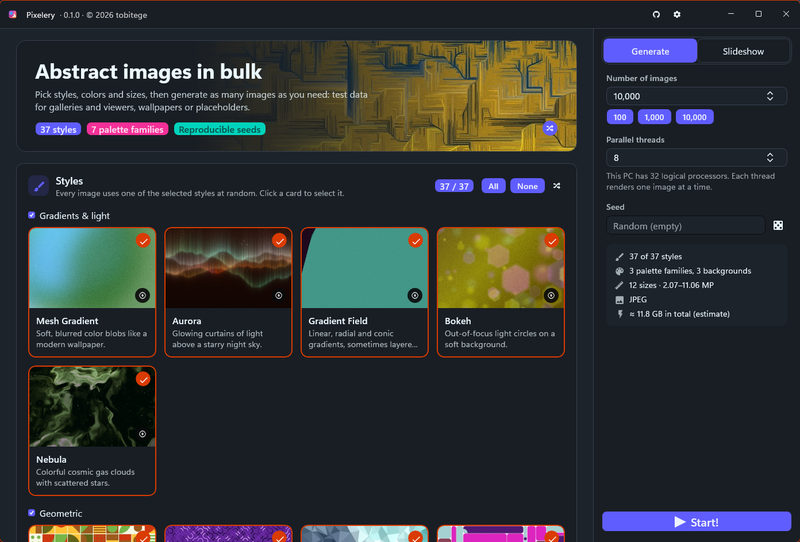
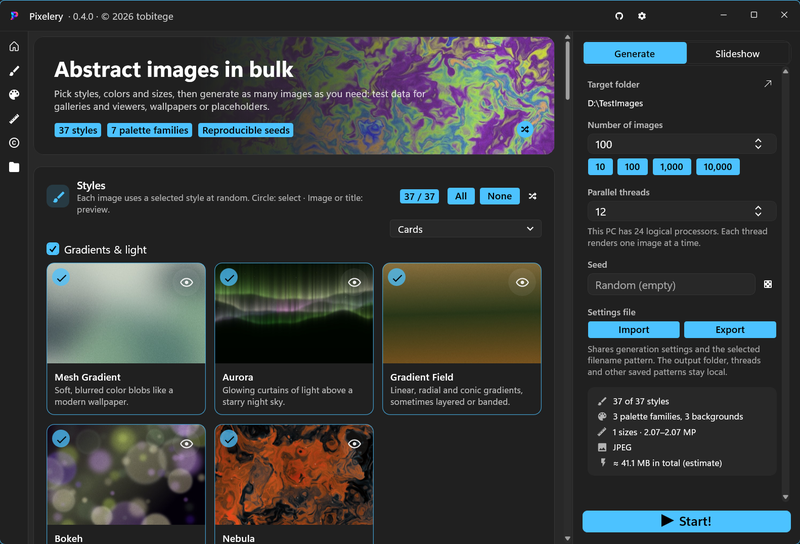
Prepare 0.4.0 with Flowery.WinUI 1.6.0 and a user-focused README
Update Flowery.WinUI to 1.6.0 and Microsoft.Windows.SDK.BuildTools to
10.0.28000.2705, which Flowery.WinUI requires, and bump the version to
0.4.0.

Refresh the README screenshot and badges, adding a downloads badge.
Explain how colors and finish apply, and shorten the release build and
update notes for end users. Move the command line reference into CLI.md;
the README describes file names, settings files and watermarks in the app.

diff --git a/README.md b/README.md
@@ -7,7 +7,8 @@
 <p align="center">
   <img src="https://img.shields.io/badge/Windows-10%20%2F%2011%20%C2%B7%20x64-0078D4" alt="Platform: Windows 10 / 11, x64">
   <a href="https://github.com/tobitege/Pixelery/actions/workflows/ci.yml"><img src="https://github.com/tobitege/Pixelery/actions/workflows/ci.yml/badge.svg?branch=main" alt="Windows CI"></a>
-  <a href="https://www.nuget.org/packages/Flowery.WinUI/1.4.0"><img src="https://img.shields.io/badge/NuGet-Flowery.WinUI%201.4.0-004880?logo=nuget&amp;logoColor=white" alt="NuGet: Flowery.WinUI 1.4.0"></a>
+  <a href="https://www.nuget.org/packages/Flowery.WinUI/1.6.0"><img src="https://img.shields.io/badge/NuGet-Flowery.WinUI%201.6.0-004880?logo=nuget&amp;logoColor=white" alt="NuGet: Flowery.WinUI 1.6.0"></a>
+  <a href="https://github.com/tobitege/Pixelery/releases"><img src="https://img.shields.io/github/downloads/tobitege/Pixelery/total?logo=github" alt="Downloads"></a>
 </p>
 
 <p align="center">
@@ -27,10 +28,10 @@ Built with [Flowery.WinUI](https://github.com/tobitege/Flowery.WinUI) (NuGet) an
 
 | Project | Purpose |
 | --- | --- |
-| `Pixelery` | WinUI 3 app (Daisy controls, themes, sizes, 12 languages) |
+| `Pixelery` | Flowery.WinUI app, based on WinUI 3 (Daisy controls, themes, sizes, 12 languages) |
 | `Pixelery.Core` | Generator engine without UI dependencies: styles, palettes, sizes, file name schema, watermarks, encoding, parallel runner |
 | `Pixelery.Cli` | `Pixelery.Cli.exe` command line tool: generation, single images, desktop background, screen saver |
-| `Pixelery.Core.Tests` | Tests for palette files, settings, safe file names, and Truchet rendering |
+| `Pixelery.Core.Tests` | Tests for palette files, settings files, sizes, date ranges, safe file names, Truchet and halftone rendering, and signed updates |
 
 ## Features at a glance
 
@@ -62,6 +63,16 @@ Every style derives all decisions from the image seed, so the same seed gives th
 Cards and the preview list use bundled thumbnails at startup. You can regenerate them with the selected colors. The eye button opens a large preview with a full screen view (→ shows more variants, Space runs a slideshow of that style).
 
 ## Colors and finish
+
+These options decide the colors and look of every image, regardless of its style.
+Select one or more entries per group. For each image, Pixelery picks one palette family, one background and one level of detail at random from your selection.
+The family creates a new palette for that image, and the image seed makes the choice repeatable.
+The background sets the canvas: dark and light are tinted with the hue of a palette color, while vivid uses one of the most saturated palette colors, slightly darkened. Colors too close to the background are left out.
+The level of detail controls how many shapes, lines or particles a style draws.
+Film grain and vignette are applied on top of every finished image when enabled.
+
+Instead of palette families, you can also use a palette set: eight saved palettes with their exact colors and backgrounds.
+Each image then uses one of these eight. Keep individual palettes while shuffling the others, and share sets as JSON files.
 
 - **Palette families:** curated (36 hand-picked palettes), color harmony (analogous, complementary, split, triadic, tetradic), cosine gradients, pastel, neon, earth tones, monochrome
 - **Background:** dark, light or vivid
@@ -124,7 +135,6 @@ If the app's local generator settings use the old format, the app starts with th
 - Import takes the styles exactly as written. A newer Pixelery does not add its new styles, as it does for its own saved settings.
 - Import warns when the file comes from another Pixelery version, whose styles and palettes can look different, and when a watermark font is not installed. A missing watermark image shows up as a validation error.
 - `{guid}` in the file name schema is random by design; `{rand}` follows the image seed.
-- The command line reads the same files with `--config`, also with the styles exactly as written. `--app-config` adds new styles, like the app.
 
 ## Watermarks
 
@@ -174,50 +184,16 @@ The **Slideshow** tab shows newly generated images one after another with the se
 
 ## Command line
 
-`Pixelery.Cli.exe` (project `Pixelery.Cli`) drives the same engine with the same settings as the app:
-
-In PowerShell, run it as `.\Pixelery.Cli.exe` from the executable's directory.
-
-```bash
-Pixelery.Cli.exe generate -o D:\TestImages -n 10000 -j max               # bulk generation with progress and Ctrl+C
-Pixelery.Cli.exe generate --app-config -n 500                            # reuse the settings last used in the app
-Pixelery.Cli.exe generate -s marble,aurora --palettes neon --tones dark --sizes "4K UHD" --formats png
-Pixelery.Cli.exe generate -c my.json --dry-run                           # plan and example file names only
-Pixelery.Cli.exe generate -n 500 --watermark-text "© {now:yyyy} Your Name" --watermark-position random
-Pixelery.Cli.exe render marble.png -s marble --seed 42                   # one image into a file
-Pixelery.Cli.exe setbackground -s aurora,nebula --tones dark             # one image at screen size as desktop background
-Pixelery.Cli.exe setscreensaver -s geometric --activate                  # one image for the Windows Photos screen saver
-Pixelery.Cli.exe list styles|palettes|sizes|placeholders
-Pixelery.Cli.exe <command> --help
-```
-
-| Area | Options |
-| --- | --- |
-| Settings source | `-c/--config <file>` (styles exactly as written), `--app-config`, `--save-config <file>` |
-| Styles and colors | `-s/--styles`, `--exclude`, `--palettes`, `--tones`, `--detail`, `--grain`, `--vignette` (lists are comma separated, `all` selects everything) |
-| Sizes | `--multiple-sizes`, `--orientation`, `--ratios`, `--edges`, `--sizes`, `--random-sizes` (size options replace loaded sizes; multiple choices cycle in order by default) |
-| Output | `-o/--out`, `-n/--count`, `-j/--threads` (`max` for all cores), `--seed`, `--formats`, `--quality`, `--name`, `--start`, `--overwrite`, `--spread-dates`, `--spread-from` / `--spread-to` (`yyyy-MM`, inclusive), `--exif` |
-| Watermark | `--watermark`/`--no-watermark`, `--watermark-text`, `--watermark-image`, `--watermark-position`, `--watermark-size`, `--watermark-opacity`, `--watermark-rotation`, `--watermark-color`, `--watermark-font` (everything else, such as several layers, outline, plate or blend modes, via `--config`) |
-| Run | `--dry-run`, `-q/--quiet`, `--json` |
-
-Switches can be negated with `--no-…`. Exit codes: 0 done, 1 failures, 2 invalid options, 130 cancelled.
-
-Use `--multiple-sizes` or `--no-multiple-sizes` to restore the remembered selection for that mode, just as in the app.
-Then `--sizes`, `--ratios`, `--edges` and `--orientation` replace the choices in that mode.
-Without a mode switch, explicit size choices determine whether the CLI uses single or multiple selection.
-`--no-multiple-sizes` requires exactly one size and one orientation. Conflicting choices are rejected.
-`--random-sizes` requires multiple selection; `--no-random-sizes` cycles through the choices in order.
-`--save-config` saves both remembered selections and the active mode.
+`Pixelery.Cli.exe` generates images with the same engine and settings as the app, for example in scripts or scheduled tasks.
+It can also set a desktop background or a screen saver image. The installer places it beside `Pixelery.exe`.
 
 ```powershell
-.\Pixelery.Cli.exe generate --multiple-sizes --sizes 640x480,1920x1080 --no-random-sizes --count 10
-.\Pixelery.Cli.exe generate --config gallery.json --multiple-sizes --random-sizes
-.\Pixelery.Cli.exe generate --config gallery.json --no-multiple-sizes --save-config single.json --dry-run
+.\Pixelery.Cli.exe generate --app-config -n 500                 # 500 images with the settings last used in the app
+.\Pixelery.Cli.exe generate -c gallery.json -o D:\TestImages     # a shared settings file
+.\Pixelery.Cli.exe setbackground -s aurora,nebula --tones dark   # new desktop background
 ```
 
-`render`, `setbackground` and `setscreensaver` produce exactly one image and accept the style, color, size and watermark options. Without size options they render at the primary screen resolution. Backgrounds are kept in `%LOCALAPPDATA%\Pixelery\Wallpaper`; each screen saver image gets its own folder under `%LOCALAPPDATA%\Pixelery\Screensaver`.
-
-Developer helpers: `Pixelery.Cli.exe sheet <folder> [seed] [styleId]` (contact sheets) and `Pixelery.Cli.exe bench [w] [h] [n]` (render time per style).
+See [CLI.md](CLI.md) for all commands and options.
 
 ## Build and run
 
@@ -233,84 +209,39 @@ Release builds exclude the CDP package and server.
 
 ## Release builds
 
-Pull requests and pushes to `main` run Windows CI. It builds the solution, runs the Core tests, and publishes the app and CLI.
-The CLI smoke test checks all 37 styles, reproducible PNG output, image dimensions, parallel generation, text watermarks, and settings files.
-CI checks that both publish outputs contain native code without a managed runtime.
-It builds and tests the NSIS installer, including the shared app/CLI directory, upgrades, and removal.
-It uploads test results, the installer, and portable ZIP files, without creating a release or tag.
+Each GitHub release contains a per-user installer, `Pixelery-Setup-<version>-x64.exe`, and portable ZIP files for the app and the CLI.
+Both are Native AOT builds and need no .NET or Windows App SDK installation.
 
-Run the Core tests locally with `dotnet test Pixelery.Core.Tests/Pixelery.Core.Tests.csproj -c Release`.
-Test files stay under `%LOCALAPPDATA%\Pixelery\Tests` unless `PIXELERY_TEST_ROOT` specifies another directory.
-The caller owns these test files and can remove them after inspection.
+The installer needs no administrator rights and installs the app and CLI to `%LOCALAPPDATA%\Programs\Pixelery`.
+Use `/S` for a silent installation and `/D=<path>` as the last argument, without quotes, for another directory.
+For a portable copy, extract a complete ZIP and keep all files beside the executable.
+Settings are stored in `%LOCALAPPDATA%\Pixelery` (override with `PIXELERY_STATE_ROOT`) and survive updates and removal.
 
-After publishing the CLI, run the smoke test from PowerShell 7:
+To build a release locally, you need the .NET SDK from `global.json` and Visual Studio C++ build tools with a Windows SDK (PowerShell 7):
 
 ```powershell
-./tools/Test-CliSmoke.ps1 -CliPath ./publish-cli/Pixelery.Cli.exe -OutputDirectory "$env:LOCALAPPDATA/Pixelery/Tests/Smoke"
-```
-
-Both projects use Native AOT for Release publishing. The applications need no .NET or Windows App SDK installation.
-Building them requires the .NET SDK selected in `global.json` and Visual Studio C++ build tools with a Windows SDK.
-
-```bash
 dotnet publish Pixelery/Pixelery.csproj -c Release -r win-x64 -p:Platform=x64 -o publish
 dotnet publish Pixelery.Cli/Pixelery.Cli.csproj -c Release -r win-x64 -o publish-cli
-```
-
-GitHub releases are created manually: Actions → **Pixelery Release** → Run workflow → version (e.g. `0.1.0`).
-The release contains a per-user installer, `Pixelery-Setup-<version>-x64.exe`, and two portable archives: `Pixelery-Windows-x64.zip` and `Pixelery.Cli-Windows-x64.zip`.
-The installer needs no administrator rights. Its default directory is `%LOCALAPPDATA%\Programs\Pixelery`.
-It offers all 12 application languages and initializes the selected language if no language preference exists.
-An existing language preference is kept.
-It creates a Start menu shortcut and an uninstall entry for the current user.
-The installer always includes both `Pixelery.exe` and `Pixelery.Cli.exe` directly in the installation directory. Shared libraries are installed once.
-Upgrades move the previously installed app and CLI out of their separate component folders into this common directory.
-Updates and removal preserve application settings and files that the installer did not install.
-
-For a portable installation, use either ZIP.
-Extract the complete archive, then run `Pixelery.exe` or `Pixelery.Cli.exe`. Keep all included libraries and assets beside the executable.
-Debug symbols are excluded from these archives.
-
-Build the installer from existing publish directories with PowerShell 7:
-
-```powershell
 $nsis = ./tools/Get-Nsis.ps1 -Directory "$env:LOCALAPPDATA/Pixelery/Tools"
 ./tools/New-Installer.ps1 -AppDirectory ./publish -CliDirectory ./publish-cli -OutputDirectory ./artifacts/packages -NsisPath $nsis
 ```
 
-The helper downloads NSIS 3.13 and verifies the archive against a pinned SHA-256 checksum.
-The installer supports `/S` for silent installation. Both applications are always installed.
-Only one Pixelery installation or removal can run at a time. A competing process exits with code 1618.
-For a custom directory, append `/D=<absolute path>` as the last argument, without quotes around the path.
-Its test script requires a clean user account without an existing installed Pixelery.
+Run the tests and the CLI smoke test:
 
-Settings are stored in `%LOCALAPPDATA%\Pixelery` (override with `PIXELERY_STATE_ROOT`).
+```powershell
+dotnet test Pixelery.Core.Tests/Pixelery.Core.Tests.csproj -c Release
+./tools/Test-CliSmoke.ps1 -CliPath ./publish-cli/Pixelery.Cli.exe -OutputDirectory "$env:LOCALAPPDATA/Pixelery/Tests/Smoke"
+```
+
+CI does the same for every pull request. A restore fails if any NuGet package has a known vulnerability.
+Releases are created manually: Actions → **Pixelery Release** → Run workflow → version.
 
 ## Updates
 
-Open **Settings → Updates** to check for a stable release, download it, and select **Install and restart**.
-The app verifies Ed25519 signatures on both the update feed and installer with [NetSparkle](https://github.com/NetSparkleUpdater/NetSparkle).
-No update is downloaded or installed in the background. Closing settings cancels a pending check or download.
-Installation waits for Pixelery to close, updates both applications, preserves settings, and restarts the app.
-If installation fails, the automatic updater displays the error. After you dismiss it, a successful rollback restarts the previous app.
-Finish image generation before installing an update.
-For portable users, this creates or updates the per-user installation; the extracted portable files remain untouched.
-Downloads stay under the application data directory in `Updates`.
-
-The release workflow publishes `appcast.xml` and `appcast.xml.signature` beside the installer and ZIP files.
-It requires the repository secret `PIXELERY_UPDATE_PRIVATE_KEY`, containing the NetSparkle Ed25519 private key.
-The matching public key is embedded from `Pixelery.Updates/UpdatePublicKey.txt`.
-Keep a secure backup of the private key. Replacing it requires a separately planned trust-key migration for existing installations.
-PR CI uses disposable test keys and has no access to the release signing key.
-
-To generate a signed feed locally after building the installer:
-
-```powershell
-dotnet tool restore
-./tools/New-UpdateFeed.ps1 -InstallerPath ./artifacts/packages/Pixelery-Setup-0.2.0-x64.exe -Version 0.2.0 -OutputDirectory ./artifacts/packages -KeyDirectory "$env:LOCALAPPDATA/Pixelery/ReleaseSigning"
-```
-
-The update feed becomes available after the next manual GitHub release with these assets.
+Open **Settings → Updates** to check for a new release, download it and select **Install and restart**.
+Pixelery never checks for or downloads updates in the background, and it verifies the signature of every download before installing it.
+The update installs both the app and the CLI, keeps your settings and restarts Pixelery. Finish a running generation first.
+With a portable copy, the update installs Pixelery for your user account and leaves the extracted files untouched.
 
 ## License
 

diff --git a/CLI.md b/CLI.md
@@ -1,0 +1,84 @@
+# Pixelery command line
+
+`Pixelery.Cli.exe` generates images with the same engine and settings as the [Pixelery app](README.md).
+Use it for scripts and scheduled tasks, or to set a desktop background or screen saver image.
+The installer places it beside `Pixelery.exe`; it is also available as a separate portable ZIP.
+
+In PowerShell, run it as `.\Pixelery.Cli.exe` from the executable's directory.
+
+## Examples
+
+```bash
+Pixelery.Cli.exe generate -o D:\TestImages -n 10000 -j max               # bulk generation with progress and Ctrl+C
+Pixelery.Cli.exe generate --app-config -n 500                            # reuse the settings last used in the app
+Pixelery.Cli.exe generate -s marble,aurora --palettes neon --tones dark --sizes "4K UHD" --formats png
+Pixelery.Cli.exe generate -c my.json --dry-run                           # plan and example file names only
+Pixelery.Cli.exe generate -n 500 --watermark-text "© {now:yyyy} Your Name" --watermark-position random
+Pixelery.Cli.exe render marble.png -s marble --seed 42                   # one image into a file
+Pixelery.Cli.exe setbackground -s aurora,nebula --tones dark             # one image at screen size as desktop background
+Pixelery.Cli.exe setscreensaver -s geometric --activate                  # one image for the Windows Photos screen saver
+Pixelery.Cli.exe list styles|palettes|sizes|placeholders
+Pixelery.Cli.exe <command> --help
+```
+
+## Options
+
+| Area | Options |
+| --- | --- |
+| Settings source | `-c/--config <file>`, `--app-config`, `--save-config <file>` |
+| Styles and colors | `-s/--styles`, `--exclude`, `--palettes`, `--tones`, `--detail`, `--grain`, `--vignette` (lists are comma separated, `all` selects everything) |
+| Sizes | `--multiple-sizes`, `--orientation`, `--ratios`, `--edges`, `--sizes`, `--random-sizes` |
+| Output | `-o/--out`, `-n/--count`, `-j/--threads` (`max` for all cores), `--seed`, `--formats`, `--quality`, `--name`, `--start`, `--overwrite`, `--spread-dates`, `--spread-from` / `--spread-to` (`yyyy-MM`, inclusive), `--exif` |
+| Watermark | `--watermark`/`--no-watermark`, `--watermark-text`, `--watermark-image`, `--watermark-position`, `--watermark-size`, `--watermark-opacity`, `--watermark-rotation`, `--watermark-color`, `--watermark-font` |
+| Run | `--dry-run`, `-q/--quiet`, `--json` |
+
+Switches can be negated with `--no-…`. Exit codes: 0 done, 1 failures, 2 invalid options, 130 cancelled.
+
+## Settings files
+
+Without a settings source, the CLI starts from the default settings. Options on the command line change the loaded settings.
+
+- `-c/--config <file>` reads a file exported in the app (**Export** in the Generate panel). It takes the styles exactly as written, so the same file and Pixelery version create the same images, names and image dates as on any other PC.
+- `--app-config` uses the settings last used in the app and, like the app, adds styles that are new in this version.
+- `--save-config <file>` saves the resulting settings, including both remembered size selections and the active mode.
+
+The reference date for `{now}` and the image dates can only be set through a settings file.
+
+## File names
+
+`--name <pattern>` sets the file name pattern with the same placeholders as the app; see [Output and file names](README.md#output-and-file-names) or run `list placeholders`.
+`--start` sets the first value of `{n}`, and `--overwrite` replaces existing files instead of adding a numeric suffix.
+`--spread-from` and `--spread-to` enable random file timestamps between two months, both included.
+
+## Watermarks
+
+`--watermark-text` and `--watermark-image` change the first text or image layer, add one if needed, and turn the watermark on.
+`--watermark-text` accepts the file name placeholders and `\n` for a new line.
+The other watermark options apply to those layers, or to all layers when neither is given.
+`--watermark` and `--no-watermark` turn the configured watermark on or off.
+For several layers, outlines, background plates or blend modes, design the watermark in the app, export the settings and use `--config`.
+
+## Sizes
+
+Size options replace the sizes of loaded settings; multiple choices cycle in order by default.
+Use `--multiple-sizes` or `--no-multiple-sizes` to restore the remembered selection for that mode, just as in the app.
+Then `--sizes`, `--ratios`, `--edges` and `--orientation` replace the choices in that mode.
+Without a mode switch, explicit size choices determine whether the CLI uses single or multiple selection.
+`--no-multiple-sizes` requires exactly one size and one orientation. Conflicting choices are rejected.
+`--random-sizes` requires multiple selection; `--no-random-sizes` cycles through the choices in order.
+
+```powershell
+.\Pixelery.Cli.exe generate --multiple-sizes --sizes 640x480,1920x1080 --no-random-sizes --count 10
+.\Pixelery.Cli.exe generate --config gallery.json --multiple-sizes --random-sizes
+.\Pixelery.Cli.exe generate --config gallery.json --no-multiple-sizes --save-config single.json --dry-run
+```
+
+## Single images
+
+`render`, `setbackground` and `setscreensaver` produce exactly one image and accept the style, color, size and watermark options.
+Without size options they render at the primary screen resolution.
+Backgrounds are kept in `%LOCALAPPDATA%\Pixelery\Wallpaper`; each screen saver image gets its own folder under `%LOCALAPPDATA%\Pixelery\Screensaver`.
+
+## Developer helpers
+
+`Pixelery.Cli.exe sheet <folder> [seed] [styleId]` creates contact sheets, and `Pixelery.Cli.exe bench [w] [h] [n]` measures the render time per style.

diff --git a/CHANGELOG.md b/CHANGELOG.md
@@ -5,6 +5,20 @@ All notable changes to this project will be documented in this file.
 The format is based on [Keep a Changelog](https://keepachangelog.com/en/1.1.0/),
 and this project adheres to [Semantic Versioning](https://semver.org/spec/v2.0.0.html).
 
+## [0.4.0] - 2026-10-19
+
+### Added
+
+- Audit direct and transitive NuGet packages on every restore and in a weekly workflow, and submit the resolved packages to the GitHub dependency graph.
+- Added a downloads badge to the README.
+
+### Changed
+
+- Update Flowery.WinUI to 1.6.0.
+- Update Microsoft.Windows.SDK.BuildTools to 10.0.28000.2705, as required by Flowery.WinUI 1.6.0.
+- Refresh the README screenshot and badges. Explain how colors and finish apply, and shorten the release build and update notes for end users.
+- Move the command line reference into `CLI.md`, including its use of settings files, file name patterns and watermarks. The README describes these features in the app.
+
 ## [0.3.0] - 2026-10-17
 
 ### Added
